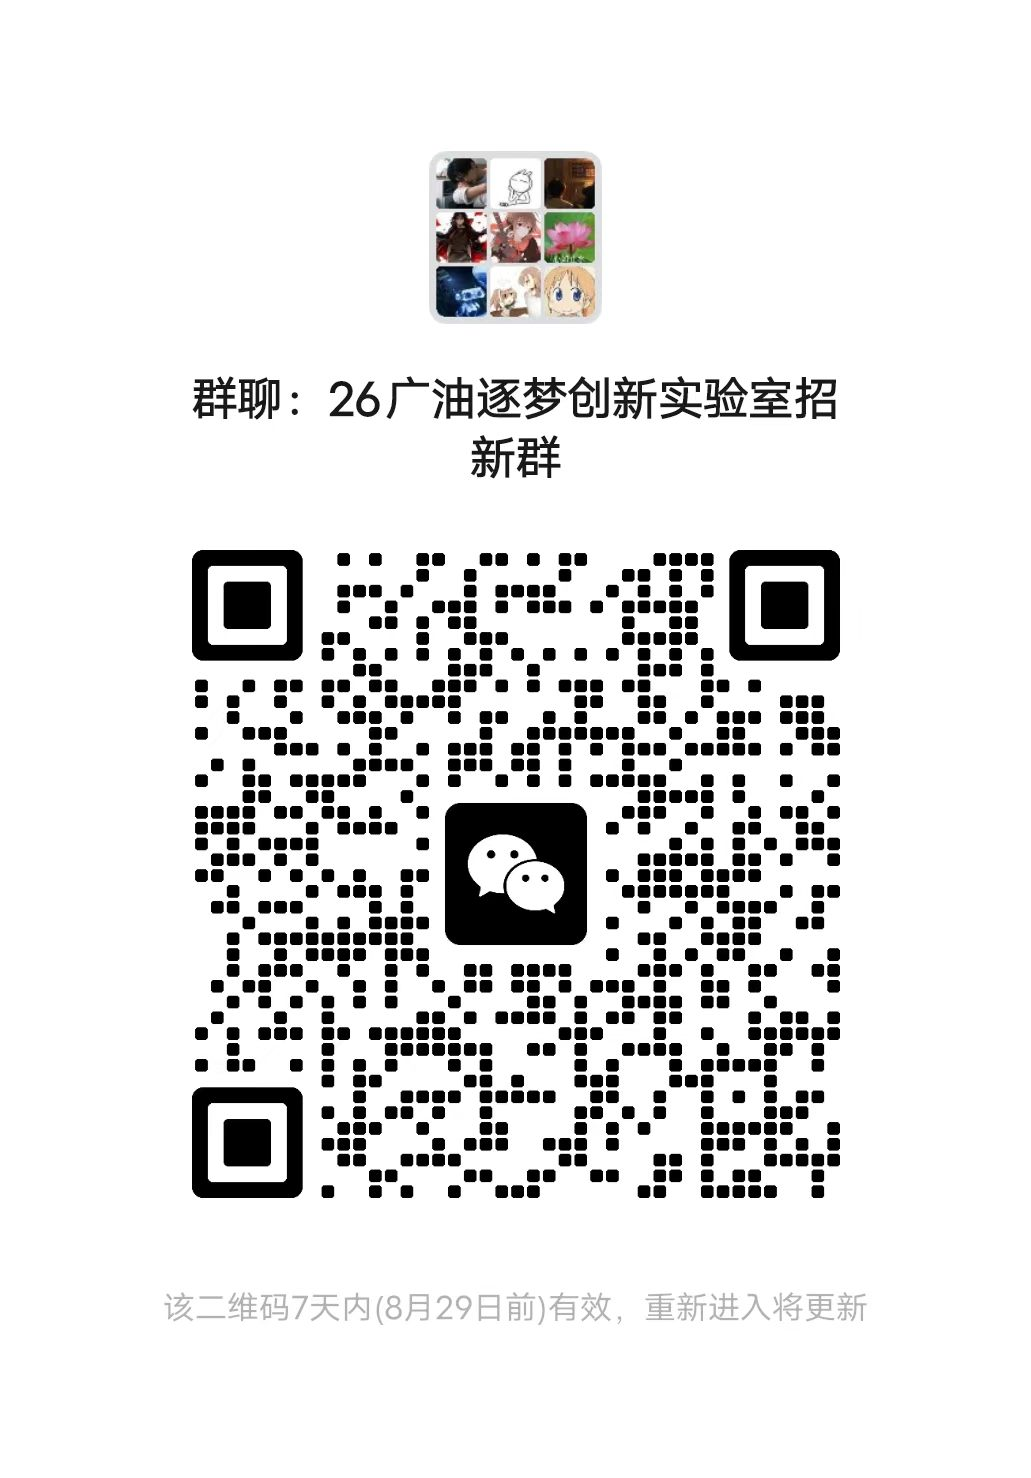
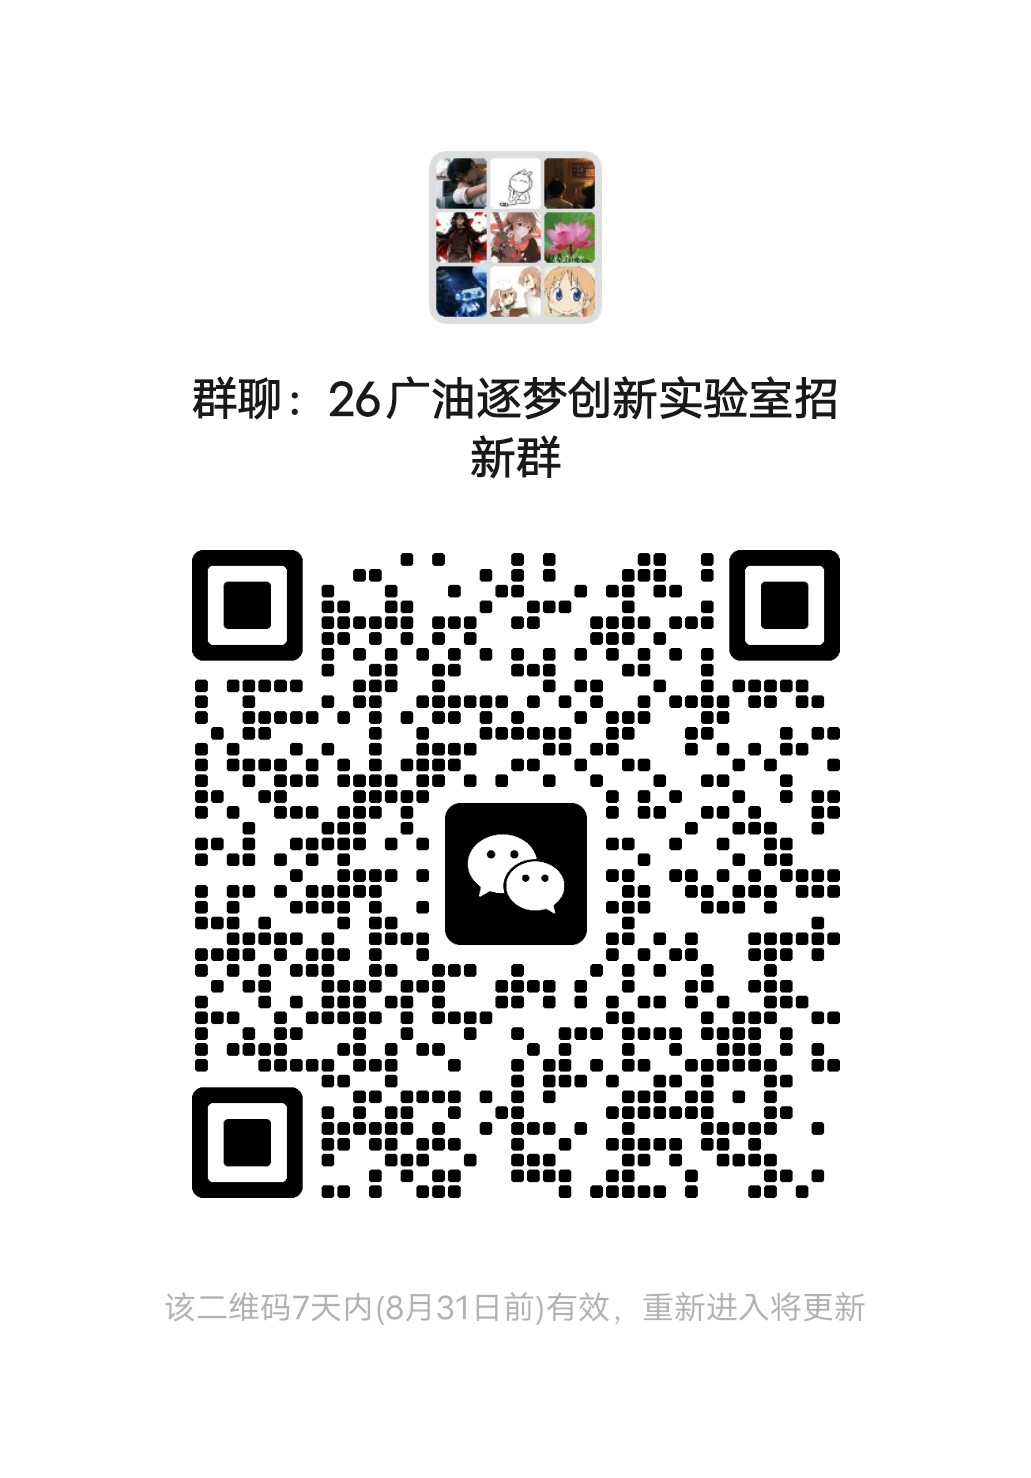
refresh recruitment qr

diff --git a/index.html b/index.html
@@ -496,7 +496,7 @@
         <div class="apply-panel" aria-label="报名准备">
           <figure class="qr-card">
             <img
-              src="./assets/recruitment-qr.png?v=20260822"
+              src="./assets/recruitment-qr.png?v=20260824"
               alt="26广油逐梦创新实验室招新群二维码"
               width="1031"
               height="1478"
@@ -505,7 +505,7 @@
             <figcaption>
               <strong>扫码加入招新咨询群</strong>
               <span>26广油逐梦创新实验室招新群</span>
-              <small>二维码 7 天内有效，8 月 29 日前可扫码加入。</small>
+              <small>二维码 7 天内有效，8 月 31 日前可扫码加入。</small>
             </figcaption>
           </figure>
           <div class="apply-actions">
